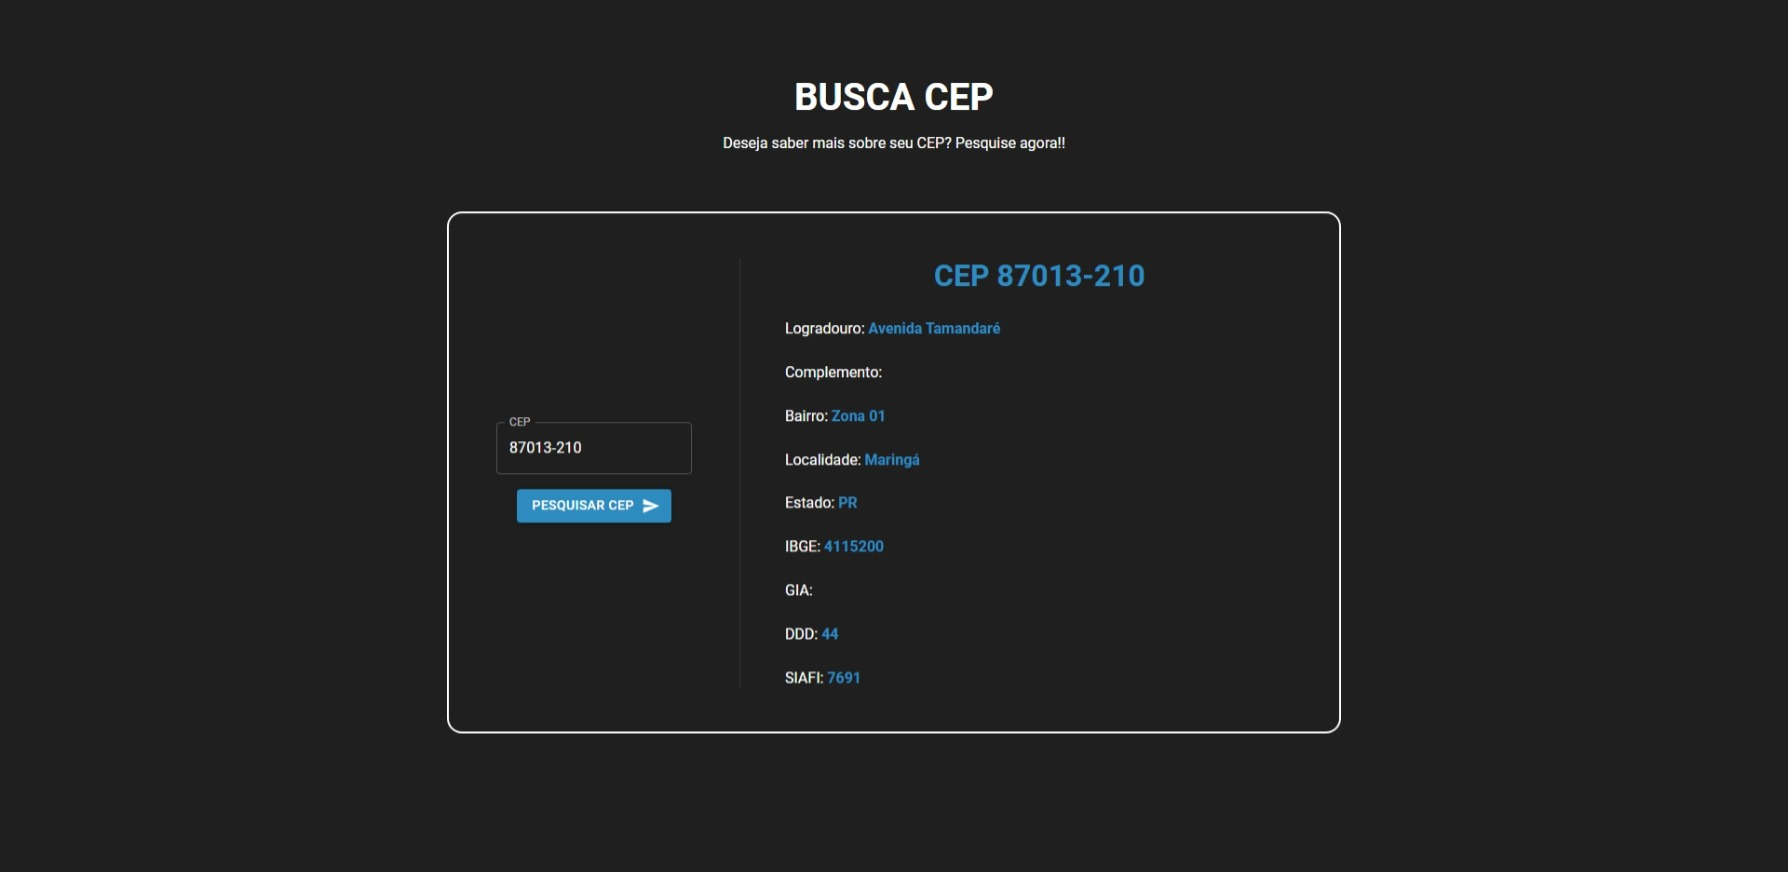
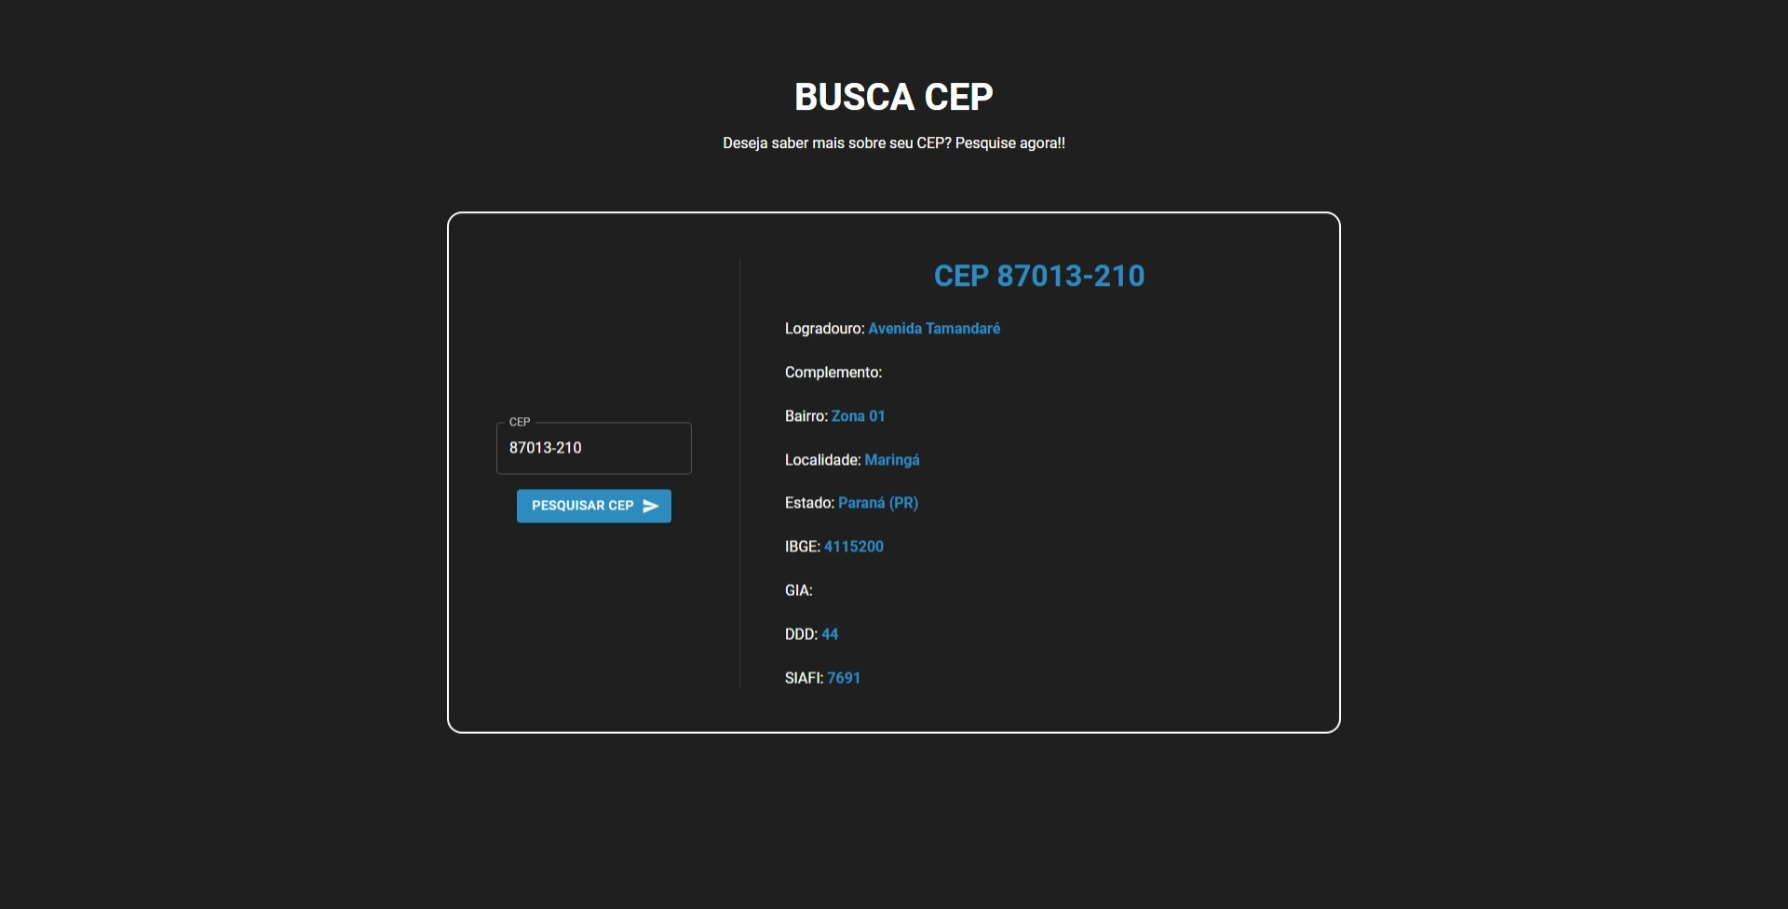
full UF name

diff --git a/frontend/src/pages/Home/index.tsx b/frontend/src/pages/Home/index.tsx
@@ -28,6 +28,36 @@ const errorMessagesCep = {
   notExist: 'O CEP informado não existe',
 };
 
+const states = new Map([
+  ['AC', 'Acre'],
+  ['AL', 'Alagoas'],
+  ['AP', 'Amapá'],
+  ['AM', 'Amazonas'],
+  ['BA', 'Bahia'],
+  ['CE', 'Ceará'],
+  ['DF', 'Distrito Federal'],
+  ['ES', 'Espírito Santo'],
+  ['GO', 'Goías'],
+  ['MA', 'Maranhão'],
+  ['MT', 'Mato Grosso'],
+  ['MS', 'Mato Grosso do Sul'],
+  ['MG', 'Minas Gerais'],
+  ['PA', 'Pará'],
+  ['PB', 'Paraíba'],
+  ['PR', 'Paraná'],
+  ['PE', 'Pernambuco'],
+  ['PI', 'Piauí'],
+  ['RJ', 'Rio de Janeiro'],
+  ['RN', 'Rio Grande do Norte'],
+  ['RS', 'Rio Grande do Sul'],
+  ['RO', 'Rondônia'],
+  ['RR', 'Roraíma'],
+  ['SC', 'Santa Catarina'],
+  ['SP', 'São Paulo'],
+  ['SE', 'Sergipe'],
+  ['TO', 'Tocantins'],
+]);
+
 export const Home: React.FC = () => {
   const [detailsCep, setDetailsCep] = useState<CepProps>();
   const [inputCep, setInputCep] = useState('');
@@ -41,13 +71,19 @@ export const Home: React.FC = () => {
     setLoading(true);
     if (cepIsValid(inputCep)) {
       try {
-        const { data } = await api.get(`/ceps`, {
+        const response = await api.get(`/ceps`, {
           params: {
             cep: inputCep,
           },
         });
-        data.cep = inputCep.slice(0, 5) + '-' + inputCep.slice(5);
-        setDetailsCep(data);
+        const cepInfo: CepProps = response.data;
+
+        cepInfo.cep = inputCep.slice(0, 5) + '-' + inputCep.slice(5);
+
+        const state = states.get(cepInfo.uf);
+        if (state) cepInfo.uf = `${state} (${cepInfo.uf})`;
+
+        setDetailsCep(cepInfo);
       } catch (error) {
         setErrorInputCep(true);
         setCurrentErrorMessageCep(errorMessagesCep.notExist);
@@ -58,6 +94,7 @@ export const Home: React.FC = () => {
       setCurrentErrorMessageCep(errorMessagesCep.incomplete);
       setDetailsCep(undefined);
     }
+
     setLoading(false);
   }
 
